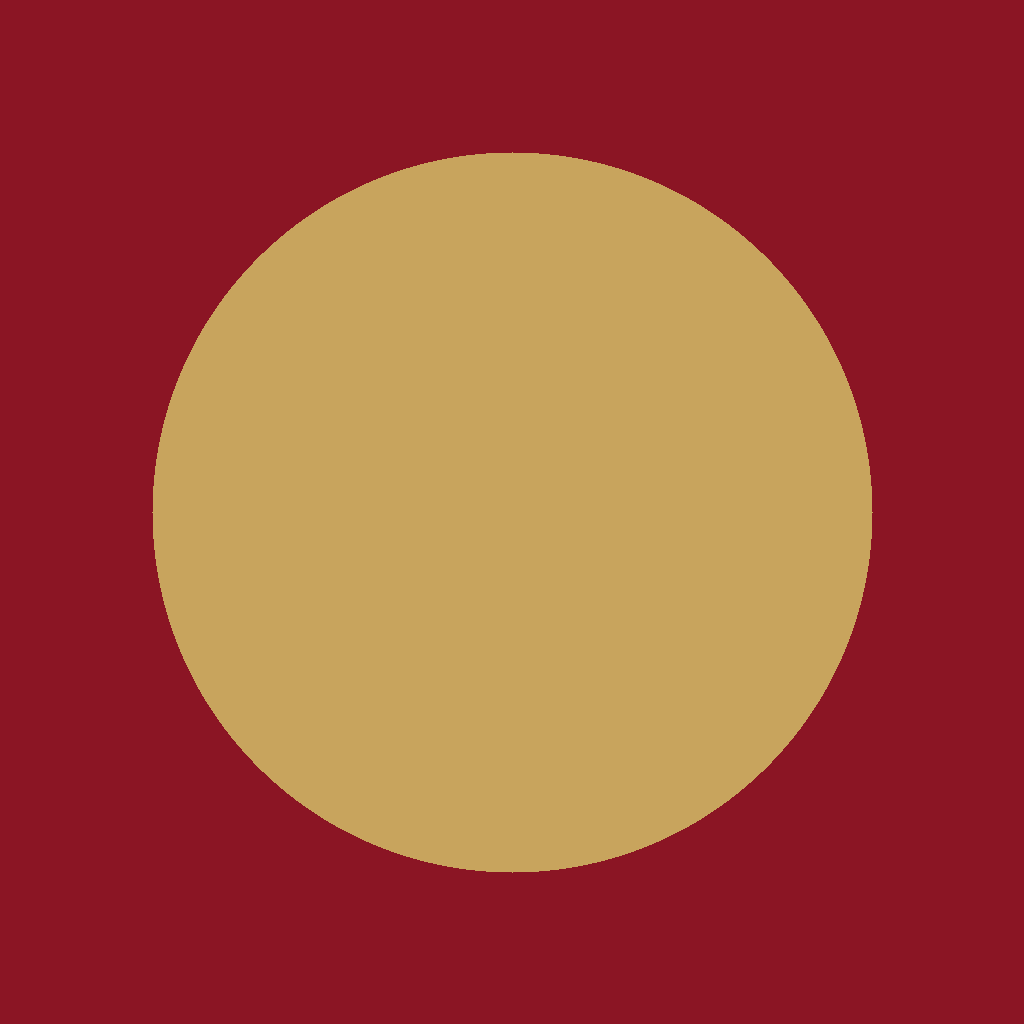
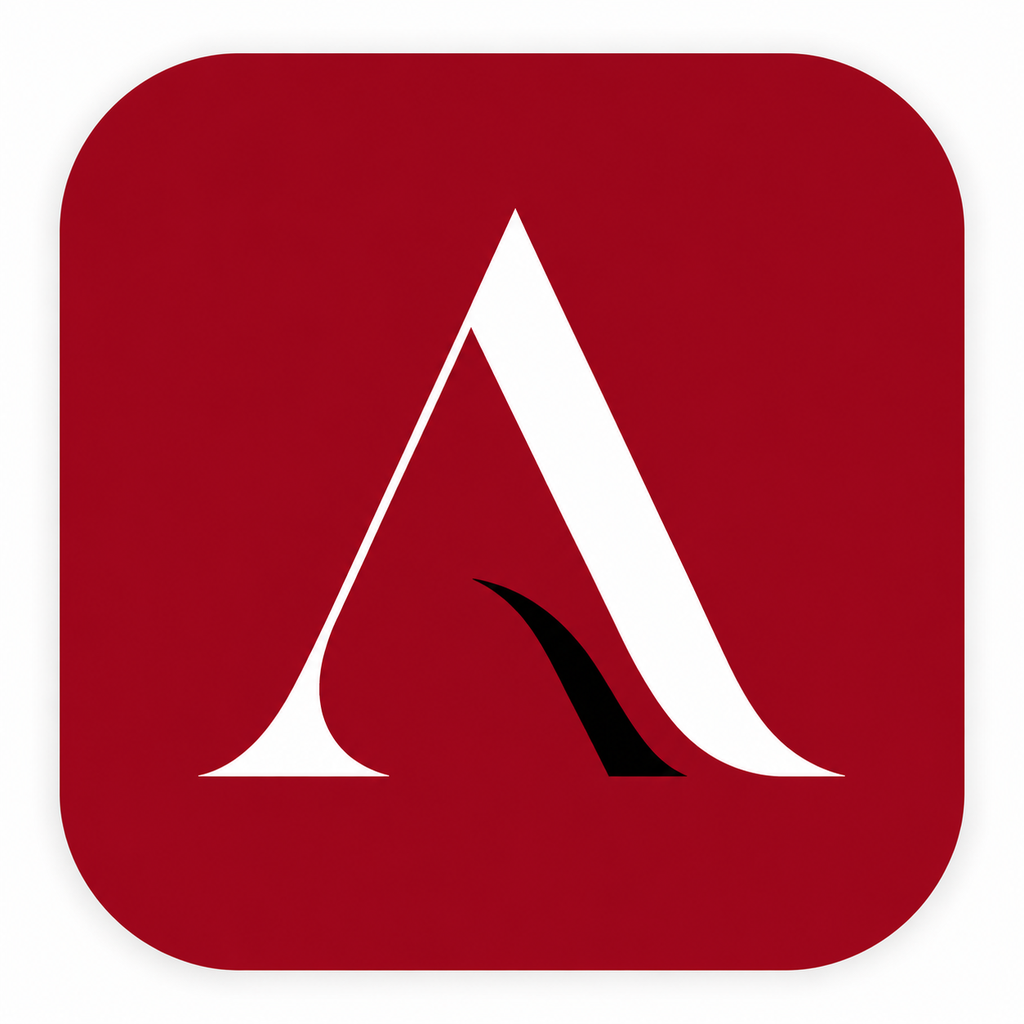
Rebrand to AtelIA across web and mobile
- Apply new wine-red "A" mark icon assets on mobile (icon, adaptive icon)
  and web (favicon via app/icon.png)
- Update mobile/app.json: name, slug, scheme, bundle identifiers
  (com.atelia.app), splash background
- Update web metadata title/description/OG tags to "AtelIA — Your AI
  Personal Stylist"
- Replace "Visual Closet Tracker" / "Closet IA" with "AtelIA" in all
  user-facing copy (nav, footer, legal pages, pricing, onboarding,
  comparison table) and in READMEs/docs
- Rename root and mobile package.json "name" fields (closet-ia repo name
  and import paths left untouched)

Claude-Session: https://claude.ai/code/session_01KXofabtapDWHvbSoYGYcgC

diff --git a/app/terms/page.tsx b/app/terms/page.tsx
@@ -2,8 +2,8 @@ import type { Metadata } from "next";
 import LegalLayout from "@/components/LegalLayout";
 
 export const metadata: Metadata = {
-  title: "Terms of Service — Visual Closet Tracker",
-  description: "The terms governing your use of Visual Closet Tracker.",
+  title: "Terms of Service — AtelIA",
+  description: "The terms governing your use of AtelIA.",
 };
 
 export default function TermsPage() {
@@ -11,7 +11,7 @@ export default function TermsPage() {
     <LegalLayout title="Terms of Service" updated="June 2026">
       <section>
         <p>
-          These terms are a template for the Visual Closet Tracker validation
+          These terms are a template for the AtelIA validation
           phase. Replace this placeholder copy with terms reviewed by qualified
           counsel before going live.
         </p>
@@ -20,7 +20,7 @@ export default function TermsPage() {
       <section>
         <h2>The service</h2>
         <p>
-          Visual Closet Tracker is an early-stage product being validated with a
+          AtelIA is an early-stage product being validated with a
           waitlist and an interactive demo. Features described on this site are
           planned and may change. No paid service is currently offered.
         </p>

diff --git a/app/disclaimer/page.tsx b/app/disclaimer/page.tsx
@@ -2,8 +2,8 @@ import type { Metadata } from "next";
 import LegalLayout from "@/components/LegalLayout";
 
 export const metadata: Metadata = {
-  title: "Disclaimer — Visual Closet Tracker",
-  description: "Important notes about Visual Closet Tracker's suggestions.",
+  title: "Disclaimer — AtelIA",
+  description: "Important notes about AtelIA's suggestions.",
 };
 
 export default function DisclaimerPage() {
@@ -11,7 +11,7 @@ export default function DisclaimerPage() {
     <LegalLayout title="Disclaimer" updated="June 2026">
       <section>
         <p>
-          Visual Closet Tracker provides outfit suggestions for inspiration
+          AtelIA provides outfit suggestions for inspiration
           only. All style decisions remain yours.
         </p>
       </section>

diff --git a/app/layout.tsx b/app/layout.tsx
@@ -18,15 +18,15 @@ const cormorant = Cormorant_Garamond({
 });
 
 export const metadata: Metadata = {
-  title: "Visual Closet Tracker — Dressed for your body. Your day. Your life.",
+  title: "AtelIA — Your AI Personal Stylist",
   description:
     "The AI wardrobe assistant that knows your measurements, your calendar, and your clothes — and puts them together every morning without you lifting a finger.",
   metadataBase: new URL(
     process.env.NEXT_PUBLIC_APP_URL || "http://localhost:3000"
   ),
   openGraph: {
-    title: "Visual Closet Tracker",
-    description: "Dressed for your body. Your day. Your life.",
+    title: "AtelIA",
+    description: "Your AI Personal Stylist",
     type: "website",
   },
 };

diff --git a/app/privacy/page.tsx b/app/privacy/page.tsx
@@ -2,8 +2,8 @@ import type { Metadata } from "next";
 import LegalLayout from "@/components/LegalLayout";
 
 export const metadata: Metadata = {
-  title: "Privacy Policy — Visual Closet Tracker",
-  description: "How Visual Closet Tracker handles your data.",
+  title: "Privacy Policy — AtelIA",
+  description: "How AtelIA handles your data.",
 };
 
 export default function PrivacyPage() {
@@ -11,7 +11,7 @@ export default function PrivacyPage() {
     <LegalLayout title="Privacy Policy" updated="June 2026">
       <section>
         <p>
-          This is a privacy policy template for the Visual Closet Tracker
+          This is a privacy policy template for the AtelIA
           validation phase. It describes how we handle the limited information
           collected through the waitlist, survey, and feature-voting forms.
           Replace this placeholder copy with policy reviewed by qualified

diff --git a/components/SiteFooter.tsx b/components/SiteFooter.tsx
@@ -12,7 +12,7 @@ export default function SiteFooter() {
       <div className="mx-auto max-w-content px-6 py-16 md:px-10">
         <div className="flex flex-col gap-10 md:flex-row md:items-start md:justify-between">
           <div className="max-w-sm">
-            <p className="font-heading text-lg text-ink">Visual Closet Tracker</p>
+            <p className="font-heading text-lg text-ink">AtelIA</p>
             <p className="mt-3 text-sm leading-relaxed text-muted">
               Dressed for your body. Your day. Your life. The AI wardrobe
               assistant that knows your measurements, your calendar, and your
@@ -49,11 +49,11 @@ export default function SiteFooter() {
 
         <div className="mt-12 border-t border-line pt-8">
           <p className="max-w-2xl text-xs leading-relaxed text-muted">
-            Visual Closet Tracker provides outfit suggestions for inspiration and
+            AtelIA provides outfit suggestions for inspiration and
             personal guidance only. All style decisions remain entirely yours.
           </p>
           <p className="mt-4 text-xs text-muted">
-            © {new Date().getFullYear()} Visual Closet Tracker. All rights
+            © {new Date().getFullYear()} AtelIA. All rights
             reserved.
           </p>
         </div>

diff --git a/app/admin/page.tsx b/app/admin/page.tsx
@@ -10,7 +10,7 @@ import { isSupabaseConfigured } from "@/lib/supabase";
 import { login, logout } from "./actions";
 
 export const metadata: Metadata = {
-  title: "Admin — Visual Closet Tracker",
+  title: "Admin — AtelIA",
   robots: { index: false, follow: false },
 };
 
@@ -317,7 +317,7 @@ function Shell({ children }: { children: React.ReactNode }) {
     <div className="min-h-screen bg-background">
       <div className="mx-auto max-w-content px-6 py-16 md:px-10">
         <Link href="/" className="font-heading text-lg">
-          Visual Closet Tracker
+          AtelIA
         </Link>
         <div className="mt-10">{children}</div>
       </div>

diff --git a/app/waitlist/page.tsx b/app/waitlist/page.tsx
@@ -4,9 +4,9 @@ import SiteFooter from "@/components/SiteFooter";
 import WaitlistForm from "@/components/WaitlistForm";
 
 export const metadata: Metadata = {
-  title: "Join the waitlist — Visual Closet Tracker",
+  title: "Join the waitlist — AtelIA",
   description:
-    "Join the Visual Closet Tracker waitlist and help shape the app. Free, no payment, no login.",
+    "Join the AtelIA waitlist and help shape the app. Free, no payment, no login.",
 };
 
 export default function WaitlistPage() {

diff --git a/components/SiteNav.tsx b/components/SiteNav.tsx
@@ -13,9 +13,9 @@ export default function SiteNav() {
         <Link
           href="/"
           className="font-heading text-lg tracking-tight text-ink"
-          aria-label="Visual Closet Tracker home"
+          aria-label="AtelIA home"
         >
-          Visual Closet Tracker
+          AtelIA
         </Link>
 
         <div className="hidden items-center gap-8 md:flex">

diff --git a/lib/constants.ts b/lib/constants.ts
@@ -1,4 +1,4 @@
-// Shared, framework-agnostic constants for Visual Closet Tracker V2.
+// Shared, framework-agnostic constants for AtelIA V2.
 // One source of truth for plans, features, the demo wardrobe, and the body
 // profile options used by onboarding.
 
@@ -196,7 +196,7 @@ export const SURVEY = {
 // -------------------- Comparison table (landing) --------------------
 
 export const COMPARISON = {
-  competitors: ["Visual Closet Tracker", "Alta Daily", "Smart Closet"],
+  competitors: ["AtelIA", "Alta Daily", "Smart Closet"],
   rows: [
     { label: "Body-fit intelligence", values: [true, false, false] },
     { label: "Calendar integration", values: [true, false, false] },

diff --git a/app/onboarding/page.tsx b/app/onboarding/page.tsx
@@ -399,7 +399,7 @@ function Shell({
       <div className="mx-auto max-w-xl px-6 py-10 md:py-16">
         <div className="flex items-center justify-between">
           <Link href="/" className="font-heading text-lg">
-            Visual Closet Tracker
+            AtelIA
           </Link>
           <span className="text-xs text-muted">
             Step {Math.min(step, TOTAL_STEPS)} of {TOTAL_STEPS}

diff --git a/app/pricing/page.tsx b/app/pricing/page.tsx
@@ -6,7 +6,7 @@ import Pricing from "@/components/Pricing";
 import Comparison from "@/components/Comparison";
 
 export const metadata: Metadata = {
-  title: "Pricing — Visual Closet Tracker",
+  title: "Pricing — AtelIA",
   description:
     "Two plans: Essential and Pro. Every plan starts with a 7-day free trial — cancel any time and pay nothing.",
 };

diff --git a/mobile/app/onboarding/10-gracias.tsx b/mobile/app/onboarding/10-gracias.tsx
@@ -41,7 +41,7 @@ export default function Gracias() {
         </Animated.View>
         <AccentTitle normal="Gracias por " accent="confiar" style={styles.title} />
         <Text style={styles.subtitle}>
-          Ahora personalizamos Closet IA para ti…
+          Ahora personalizamos AtelIA para ti…
         </Text>
         <LoadingDots />
       </View>